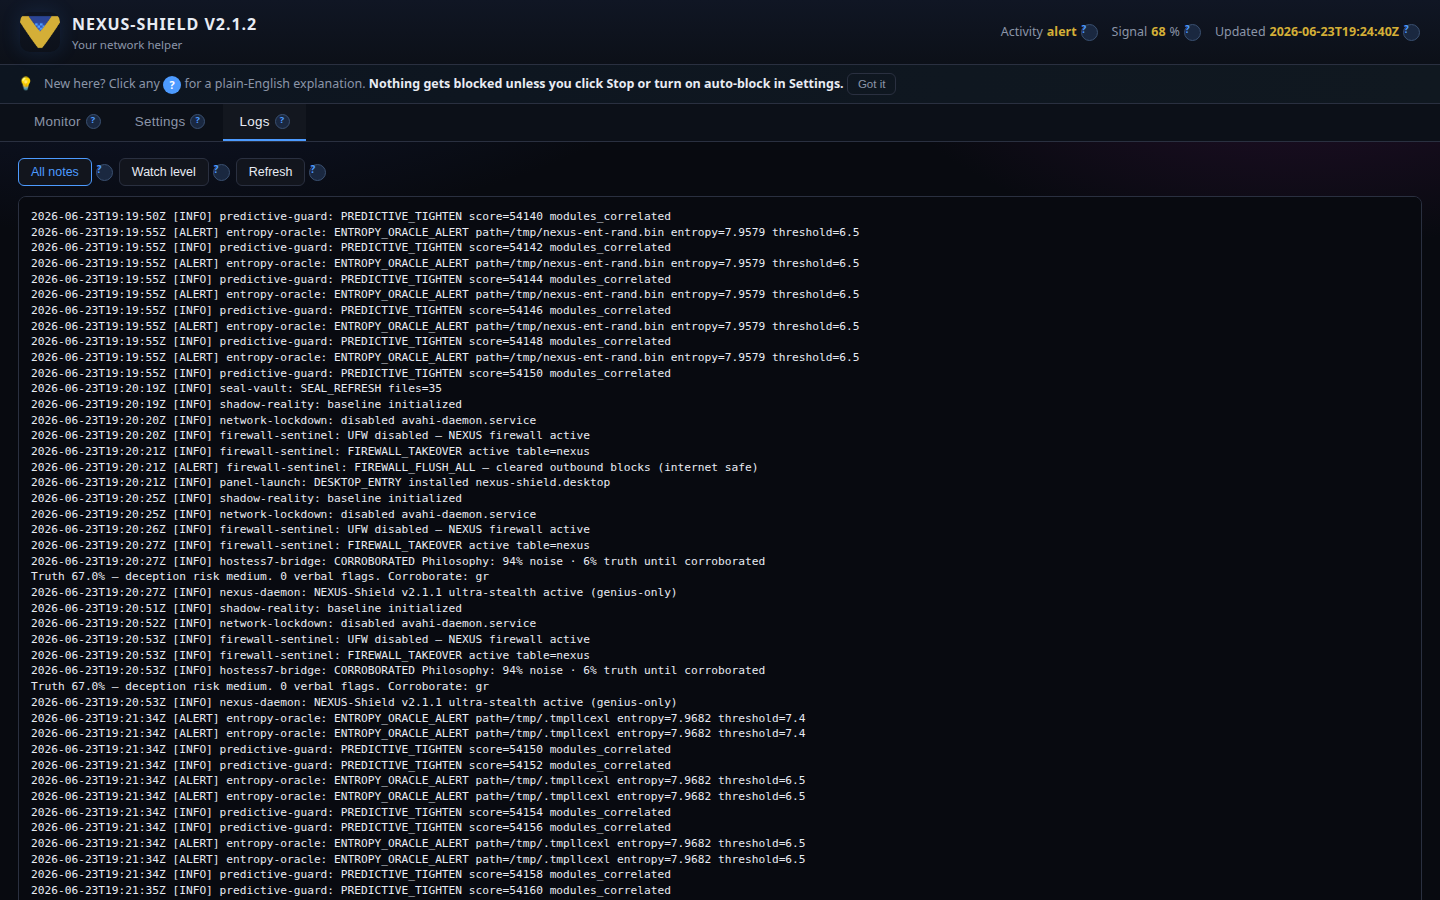
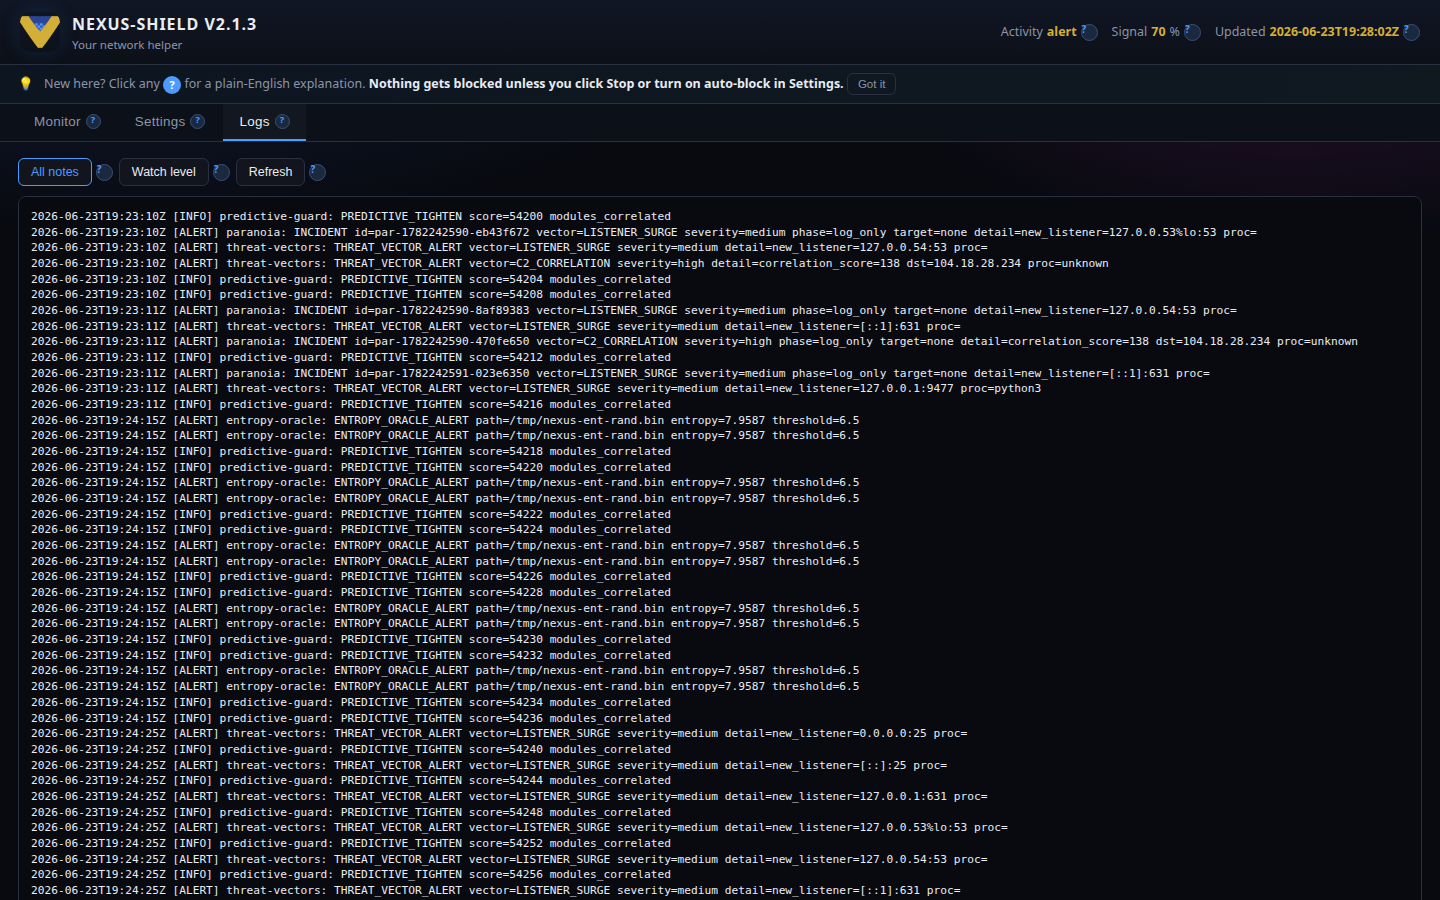
v2.1.3: give threat cards ~10% more vertical room for text
- Increase padding, gaps, and line-height on connection and warning cards
- Reorder NEXUS suggests box: summary above score meters
- Add structured spacing classes on warning card detail lines

Changed region(s): [[0.0312, 0.2489, 0.9375, 0.9956], [0.9375, 0.0311, 0.9688, 0.0622]]

diff --git a/panel/threat-panel.html b/panel/threat-panel.html
@@ -146,38 +146,40 @@
     .verdict-HARM_CANDIDATE { color: var(--threat); font-weight: 700; }
     .verdict-MONITOR { color: var(--muted); }
     .intent-row {
-      margin: 8px 12px; padding: 12px 14px; border-radius: 10px; font-size: 0.74rem;
+      margin: 10px 12px; padding: 14px 16px; border-radius: 10px; font-size: 0.74rem;
       background: var(--card); border: 1px solid #1e2838;
       box-shadow: 0 2px 12px rgba(0, 0, 0, 0.25);
+      display: flex; flex-direction: column; gap: 10px;
     }
     .intent-row.verdict-USER_OK { border-left: 4px solid var(--ok); }
     .intent-row.verdict-EPHEMERAL { border-left: 4px solid var(--internet); }
     .intent-row.verdict-SUSPICIOUS { border-left: 4px solid var(--gold); }
     .intent-row.verdict-HARM_CANDIDATE { border-left: 4px solid var(--threat); }
     .intent-row.verdict-MONITOR { border-left: 4px solid var(--muted); }
-    .score-meters { display: flex; gap: 12px; margin: 8px 0; flex-wrap: wrap; }
-    .meter { flex: 1; min-width: 120px; }
-    .meter label { display: block; font-size: 0.62rem; color: var(--muted); margin-bottom: 3px; text-transform: uppercase; letter-spacing: 0.06em; }
+    .score-meters { display: flex; gap: 14px; margin: 0; flex-wrap: wrap; }
+    .meter { flex: 1; min-width: 130px; }
+    .meter label { display: block; font-size: 0.62rem; color: var(--muted); margin-bottom: 4px; text-transform: uppercase; letter-spacing: 0.06em; }
     .meter bar { height: 6px; background: #1a2030; border-radius: 4px; overflow: hidden; }
     .meter bar span { display: block; height: 100%; border-radius: 4px; transition: width 0.3s ease; }
     .meter.trust bar span { background: linear-gradient(90deg, #2a8050, var(--ok)); }
     .meter.concern bar span { background: linear-gradient(90deg, #803040, var(--threat)); }
-    .meter .val { font-size: 0.65rem; color: var(--muted); margin-top: 2px; }
+    .meter .val { font-size: 0.65rem; color: var(--muted); margin-top: 4px; line-height: 1.5; }
     .suggestion-box {
-      margin: 10px 0; padding: 10px 12px; border-radius: 8px;
+      margin: 0; padding: 12px 14px; border-radius: 8px;
       background: #0e1420; border: 1px solid #243048;
+      display: flex; flex-direction: column; gap: 11px;
     }
-    .suggestion-box .summary { font-size: 0.8rem; color: var(--text); margin-bottom: 8px; line-height: 1.45; }
+    .suggestion-box .summary { font-size: 0.8rem; color: var(--text); margin: 0; line-height: 1.6; }
     .suggestion-box .action {
-      font-size: 0.76rem; color: var(--gold); margin-bottom: 10px; padding: 8px 10px;
+      font-size: 0.76rem; color: var(--gold); margin: 0; padding: 10px 12px; line-height: 1.55;
       background: rgba(212, 175, 55, 0.08); border-radius: 6px; border-left: 3px solid var(--gold);
     }
-    .signal-cols { display: grid; grid-template-columns: 1fr 1fr; gap: 10px; }
-    .signal-col h4 { margin: 0 0 6px; font-size: 0.65rem; letter-spacing: 0.08em; text-transform: uppercase; }
+    .signal-cols { display: grid; grid-template-columns: 1fr 1fr; gap: 12px; }
+    .signal-col h4 { margin: 0 0 7px; font-size: 0.65rem; letter-spacing: 0.08em; text-transform: uppercase; }
     .signal-col.friendly h4 { color: var(--ok); }
     .signal-col.unfriendly h4 { color: var(--threat); }
-    .signal-col ul { margin: 0; padding-left: 16px; font-size: 0.72rem; line-height: 1.45; color: #b8c4d8; }
-    .signal-col li { margin-bottom: 4px; }
+    .signal-col ul { margin: 0; padding-left: 16px; font-size: 0.72rem; line-height: 1.55; color: #b8c4d8; }
+    .signal-col li { margin-bottom: 5px; }
     .axis-details { margin-top: 8px; }
     .axis-details summary {
       cursor: pointer; font-size: 0.68rem; color: var(--muted); padding: 4px 0;
@@ -186,8 +188,8 @@
     .axis-details summary::-webkit-details-marker { display: none; }
     .axis-details[open] summary { color: var(--internet); }
     .intent-head {
-      display: grid; grid-template-columns: minmax(0, 1fr) minmax(0, auto); gap: 4px 10px;
-      align-items: center; margin-bottom: 6px;
+      display: grid; grid-template-columns: minmax(0, 1fr) minmax(0, auto); gap: 6px 10px;
+      align-items: center; margin: 0;
     }
     .intent-head .friendly-verdict { min-width: 0; }
     .intent-head .ip {
@@ -212,7 +214,7 @@
     .axis bar span.harm { background: var(--threat); }
     .axis bar span.user { background: var(--ok); }
     .axis bar span.neutral { background: var(--internet); }
-    .intent-actions { margin-top: 8px; display: flex; gap: 6px; flex-wrap: wrap; }
+    .intent-actions { margin: 0; display: flex; gap: 8px; flex-wrap: wrap; }
     .intent-actions button {
       padding: 4px 10px; border-radius: 4px; cursor: pointer; font-size: 0.65rem; font-weight: 600;
       border: 1px solid var(--border); background: var(--panel); color: var(--text);
@@ -220,12 +222,15 @@
     .intent-actions button.block { border-color: var(--threat); color: var(--threat); }
     .intent-actions button.auth { border-color: #2a5040; color: var(--ok); }
     .threat-row {
-      margin: 8px 12px; padding: 12px 14px; border-radius: 10px;
+      margin: 10px 12px; padding: 14px 16px; border-radius: 10px;
       background: var(--card); border: 1px solid #2a2030; border-left: 4px solid var(--threat);
+      display: flex; flex-direction: column; gap: 9px;
     }
-    .threat-row .vector { font-weight: 700; color: var(--threat); font-size: 0.82rem; }
+    .threat-row .vector { font-weight: 700; color: var(--threat); font-size: 0.82rem; line-height: 1.4; }
+    .threat-row .threat-detail { line-height: 1.55; word-break: break-word; }
+    .threat-row .threat-meta { line-height: 1.5; }
     .threat-advice {
-      margin-top: 8px; padding: 8px 10px; border-radius: 6px; font-size: 0.74rem; line-height: 1.45;
+      margin: 0; padding: 10px 12px; border-radius: 6px; font-size: 0.74rem; line-height: 1.6;
       background: rgba(255, 92, 122, 0.08); border-left: 3px solid var(--threat); color: #e8d0d6;
     }
     .threat-advice strong { color: var(--text); }
@@ -410,7 +415,7 @@
     <div class="brand">
       <img src="/assets/nexus-shield.png" alt="" class="brand-icon" width="40" height="40" />
       <div>
-        <h1>NEXUS-Shield v2.1.2</h1>
+        <h1>NEXUS-Shield v2.1.3</h1>
         <div class="brand-sub">Your network helper</div>
       </div>
     </div>
@@ -860,11 +865,11 @@
         </div>`;
       }
       return `<div class="suggestion-box verdict-${verdict}">
+        <div class="summary"><strong>NEXUS suggests:</strong> ${esc(sug.summary || "")}</div>
         <div class="score-meters">
           <div class="meter trust"><label>Trust score</label><bar><span style="width:${trustPct}%"></span></bar><div class="val">${trustPct}% — higher = more like normal you</div></div>
           <div class="meter concern"><label>Concern score</label><bar><span style="width:${concernPct}%"></span></bar><div class="val">${concernPct}% — higher = more reason to review</div></div>
         </div>
-        <div class="summary"><strong>NEXUS suggests:</strong> ${esc(sug.summary || "")}</div>
         <div class="action"><strong>What to do:</strong> ${esc(sug.action || "")}</div>
         ${signals}
       </div>`;
@@ -1439,8 +1444,8 @@
         }[t.severity] || "";
         return `<div class="threat-row">
           <div class="vector">${t.vector}</div>
-          <div class="sev-${t.severity}">${t.severity} · ${t.ts} <span class="has-tip">${tipMarkup(sevTip)}</span></div>
-          <div>${t.detail}</div>
+          <div class="threat-meta sev-${t.severity}">${t.severity} · ${t.ts} <span class="has-tip">${tipMarkup(sevTip)}</span></div>
+          <div class="threat-detail">${esc(t.detail)}</div>
           <div class="threat-advice">
             <strong>What it means:</strong> ${esc(help.meaning)}<br>
             <strong>Likely friendly or not?</strong> ${esc(help.likely)}<br>

diff --git a/README.md b/README.md
@@ -34,6 +34,11 @@ sudo ./stealth_install.sh
 
 ---
 
+## v2.1.3 — taller threat cards
+
+- **~10% more vertical room** on connection and warning cards — padding, line-height, and section gaps
+- **NEXUS suggests** summary moved above score meters so text doesn't crowd the bars
+
 ## v2.1.2 — layout polish
 
 - **Cleaner menu** — Monitor · Settings · Logs (short labels; long help stays in ? tooltips)